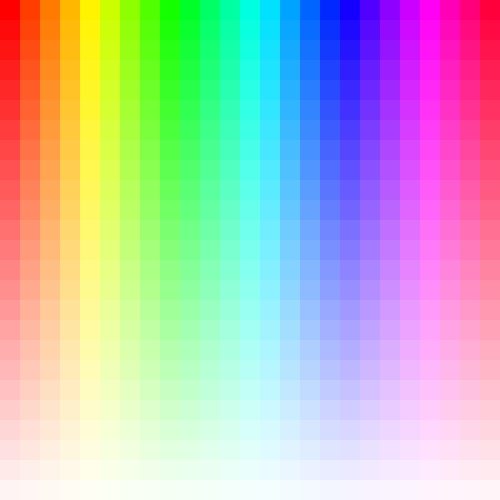
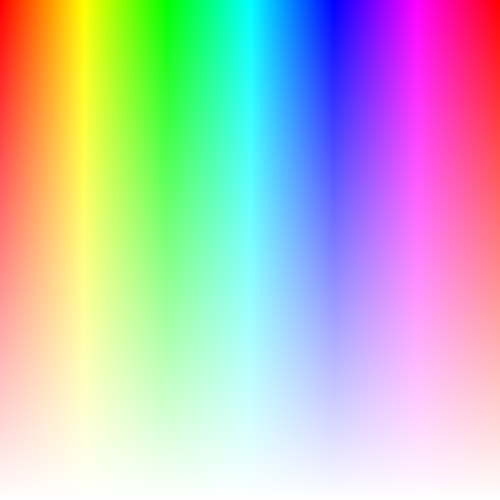
02-colorsのサンプルコードと実行結果画像を修正

Changed region(s): [[0.0, 0.0, 1.0, 0.6], [0.03, 0.63, 0.06, 0.69]]

diff --git a/02-colors/README.md b/02-colors/README.md
@@ -17,7 +17,9 @@ void setup() {
 }
 ```
 
-[`background()`](https://processing.org/reference/background_.html) 関数には RGB の値を 0~255 までの整数値でそれぞれ指定します。（なぜ 255 なのかについては後ほど説明します。）
+`setup()` 関数は、プログラムを実行したときに 1 回だけ呼び出されます。
+
+[`background()`](https://processing.org/reference/background_.html) は背景色を指定する関数で、 RGB の値を 0~255 までの整数値でそれぞれ指定します。
 
 実際にそれぞれの値を変更して実行してみて下さい。
 
@@ -45,13 +47,10 @@ void setup() {
   noStroke();
   colorMode(HSB, width, height, 100);
 
-  int stepX = 20;
-  int stepY = 20;
-
-  for (int i = 0; i < height; i += stepY) {
-    for (int j = 0; j < width; j += stepX) {
-      fill(j, height - i, 100);
-      rect(j, i, stepX, stepY);
+  for (int i = 0; i < width; i++) {
+    for (int j = 0; j < height; j++) {
+      color c = color(i, height - j, 100);
+      set(i, j, c);
     }
   }
 }
